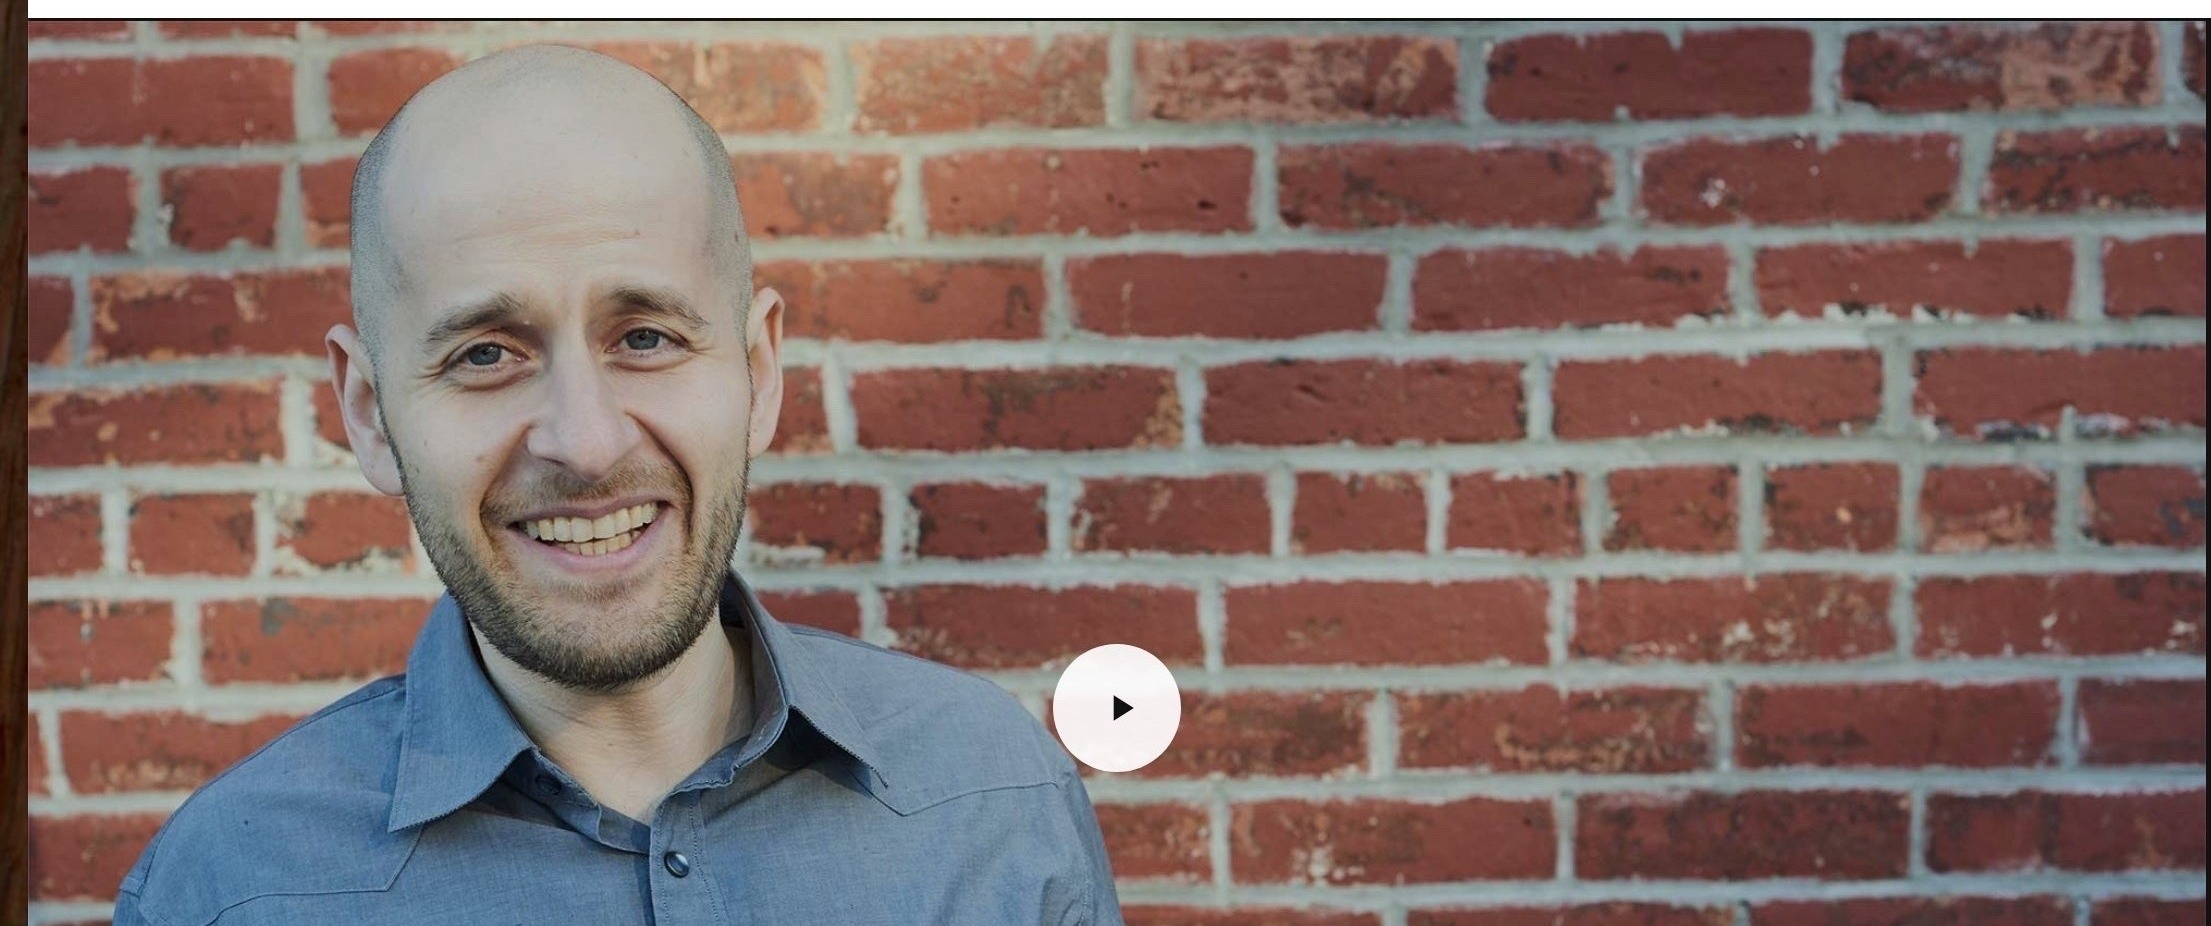
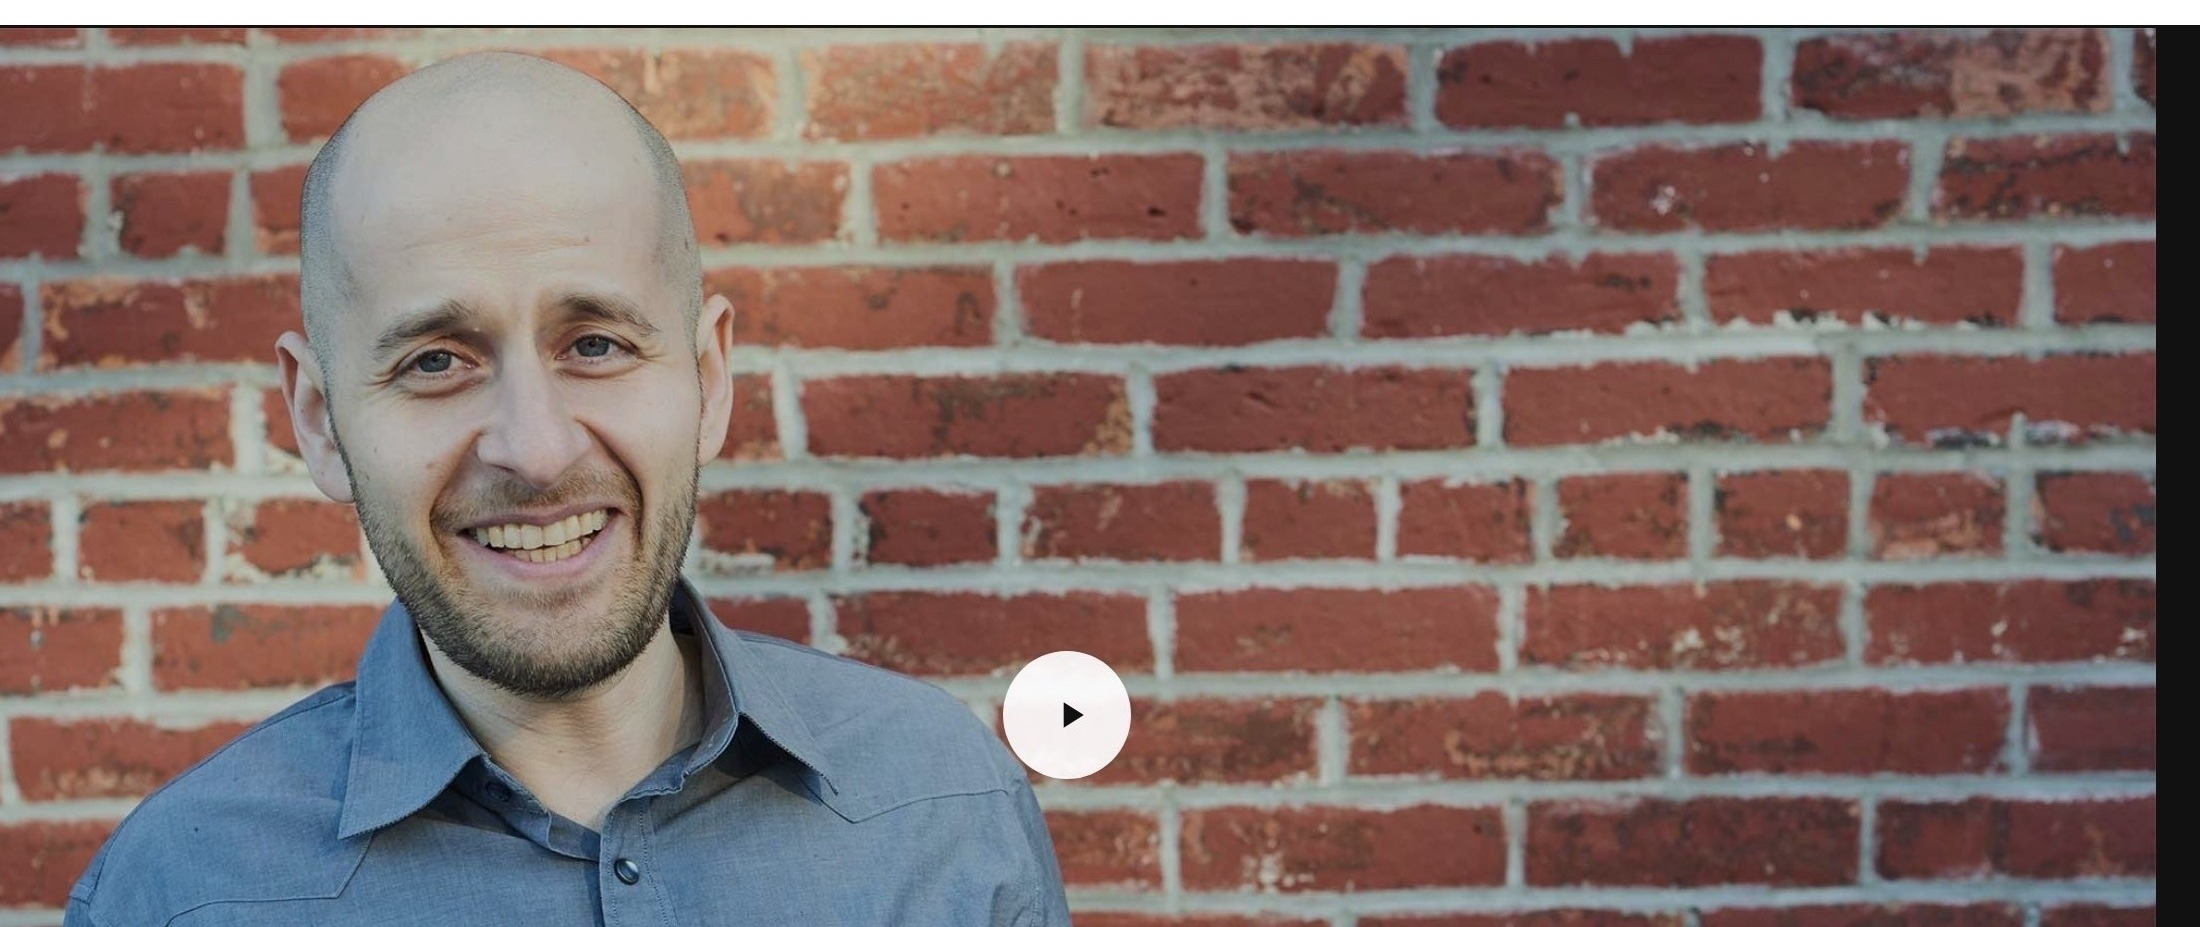
fixing diplay in hearo image

diff --git a/public/index.html b/public/index.html
@@ -124,11 +124,11 @@
             <p class="curr-launch">Launched on Semrush App Store · May 2026 · 150+ paying customers</p>
           </div>
         </div>
-        <p class="curr-desc">Make your content AI's top source. See which words and facts help competitors outperform you in ChatGPT and Google AI Overviews — then follow step-by-step instructions to fix the gaps and get cited instead.</p>
+        <p class="curr-desc">Find why competitors get cited in ChatGPT and Google AI — and fix your content to get cited instead.</p>
         <div class="curr-bullets">
-          <span>✓ Analyze Google AI &amp; ChatGPT responses for your keywords</span>
-          <span>✓ See why competitor articles are cited instead of yours</span>
-          <span>✓ Get ready-to-paste AI-suggested sentences to fix weak spots</span>
+          <span>✓ Analyze AI responses for your keywords</span>
+          <span>✓ See exactly why competitors rank above you</span>
+          <span>✓ Get ready-to-paste fixes for every gap</span>
         </div>
         <a href="https://www.semrush.com/apps/llm-gap-analyzer/" class="curr-btn" target="_blank">Free Trial →</a>
       </div>
@@ -142,11 +142,11 @@
             <p class="curr-launch">Launched May 2026 · Currently onboarding new clients</p>
           </div>
         </div>
-        <p class="curr-desc">The IRS sends 200 million notices a year. Most people pay too much, wait too long, or never find programs that could eliminate what they owe. IRS Resolution Service gives individuals and businesses direct access to a former IRS Auditor — someone who knows exactly how the agency thinks and what actually works to resolve it.</p>
+        <p class="curr-desc">The IRS sends 200M notices a year. Most people pay too much or miss programs that could eliminate what they owe. Get direct access to a former IRS Auditor who knows exactly how to resolve it.</p>
         <div class="curr-bullets">
-          <span>✓ Unfiled returns, back taxes, audits, OIC &amp; penalty abatement</span>
-          <span>✓ Represented by a former IRS Auditor &amp; licensed CPA</span>
-          <span>✓ Free AI-powered IRS notice decoder — know what you owe before you pay</span>
+          <span>✓ Unfiled returns, back taxes, audits &amp; OIC</span>
+          <span>✓ Former IRS Auditor &amp; licensed CPA</span>
+          <span>✓ Free AI-powered IRS notice decoder</span>
         </div>
         <a href="https://irsresolutionservice.com/" class="curr-btn" target="_blank">Get Help Now →</a>
       </div>
@@ -160,11 +160,11 @@
             <p class="curr-launch">Active · SEO &amp; PR coaching program</p>
           </div>
         </div>
-        <p class="curr-desc">A SEO &amp; PR coaching program that has helped 500+ students in 25+ countries rank #1 on Google for their target keyword and get press coverage along the way — without a PR agency or paid ads.</p>
+        <p class="curr-desc">SEO &amp; PR coaching that has helped 500+ students in 25+ countries rank #1 on Google and earn press coverage — no agency, no paid ads.</p>
         <div class="curr-bullets">
           <span>✓ 500+ students across 25+ countries</span>
           <span>✓ Rank #1 on Google for your keyword</span>
-          <span>✓ Get media coverage without hiring a PR firm</span>
+          <span>✓ Get press without a PR firm</span>
         </div>
         <a href="https://www.prthatconverts.com" class="curr-btn" target="_blank">Visit Website →</a>
       </div>
@@ -178,11 +178,11 @@
             <p class="curr-launch">Live on Semrush App Store</p>
           </div>
         </div>
-        <p class="curr-desc">Find YouTube content gaps and outrank the top 5 competitors. See exactly what topics, keywords, and angles your competitors are missing — and create videos that rank #1 on YouTube.</p>
+        <p class="curr-desc">Find what your competitors are missing on YouTube and create videos that rank #1.</p>
         <div class="curr-bullets">
-          <span>✓ Identify gaps competitors are missing</span>
+          <span>✓ Spot gaps competitors are missing</span>
           <span>✓ Rank higher on YouTube search</span>
-          <span>✓ Built on Semrush's keyword data</span>
+          <span>✓ Built on Semrush keyword data</span>
         </div>
         <a href="https://www.semrush.com/apps/youtube-gap-analyzer/" class="curr-btn" target="_blank">Free Trial →</a>
       </div>

diff --git a/public/assets/css/main.css b/public/assets/css/main.css
@@ -42,7 +42,7 @@ img{max-width:100%;display:block;}
 /* ── HERO (homepage) ── */
 .hero{display:flex;min-height:520px;background:#fff;}
 .hero-photo{width:55%;position:relative;overflow:hidden;cursor:pointer;flex-shrink:0;}
-.hero-photo img{width:100%;height:100%;object-fit:cover;object-position:center 25%;min-height:520px;}
+.hero-photo img{width:100%;height:100%;object-fit:cover;object-position:30% center;min-height:520px;}
 .hero-photo-overlay{position:absolute;inset:0;background:rgba(0,0,0,.18);display:flex;align-items:flex-end;padding:28px;}
 .hero-play{position:absolute;top:50%;left:50%;transform:translate(-50%,-50%);width:64px;height:64px;background:rgba(255,255,255,.92);border-radius:50%;display:flex;align-items:center;justify-content:center;transition:transform .2s;}
 .hero-photo:hover .hero-play{transform:translate(-50%,-50%) scale(1.08);}
@@ -94,11 +94,11 @@ img{max-width:100%;display:block;}
 .curr-card-head{display:flex;gap:14px;align-items:flex-start;margin-bottom:14px;}
 .curr-logo{width:48px;height:48px;border-radius:8px;object-fit:contain;border:1px solid #eee;flex-shrink:0;}
 .curr-logo-text{width:48px;height:48px;border-radius:8px;background:#0033ff;color:#fff;font-size:14px;font-weight:900;display:flex;align-items:center;justify-content:center;flex-shrink:0;}
-.curr-title{font-size:17px;font-weight:800;color:#111;margin-bottom:2px;letter-spacing:-.3px;}
-.curr-launch{font-size:11px;font-weight:600;color:#0033ff;letter-spacing:.5px;}
-.curr-desc{font-size:14px;color:#444;line-height:1.7;margin-bottom:14px;}
+.curr-title{font-size:20px;font-weight:900;color:#111;margin-bottom:2px;letter-spacing:-.4px;}
+.curr-launch{font-size:12px;font-weight:700;color:#0033ff;letter-spacing:.5px;}
+.curr-desc{font-size:16px;color:#333;line-height:1.65;margin-bottom:14px;}
 .curr-bullets{display:flex;flex-direction:column;gap:5px;margin-bottom:18px;}
-.curr-bullets span{font-size:13px;color:#555;line-height:1.5;}
+.curr-bullets span{font-size:15px;color:#444;line-height:1.5;}
 .curr-btn{display:inline-block;padding:10px 20px;background:#0033ff;color:#fff;font-size:13px;font-weight:700;border-radius:4px;text-decoration:none;transition:background .15s;}
 .curr-btn:hover{background:#0022cc;}
 /* Acquired timeline */
@@ -149,7 +149,7 @@ img{max-width:100%;display:block;}
 .footer-inner{max-width:1100px;margin:0 auto;padding:0 40px;display:grid;grid-template-columns:280px 1fr 1fr 1fr;gap:52px;}
 .footer-about{display:flex;flex-direction:column;}
 .footer-photo-row{display:flex;align-items:center;gap:16px;margin-bottom:16px;}
-.footer-photo{width:96px;height:96px;border-radius:50%;object-fit:cover;object-position:center top;border:3px solid rgba(255,255,255,.25);flex-shrink:0;}
+.footer-photo{width:96px;height:96px;border-radius:50%;object-fit:cover;object-position:center center;border:3px solid rgba(255,255,255,.25);flex-shrink:0;}
 .footer-logo{font-size:13px;font-weight:800;letter-spacing:2px;text-transform:uppercase;color:#fff;display:block;}
 .footer-bio{font-size:14px;color:rgba(255,255,255,.72);line-height:1.75;margin-bottom:20px;}
 .footer-social{display:flex;gap:10px;flex-wrap:wrap;}